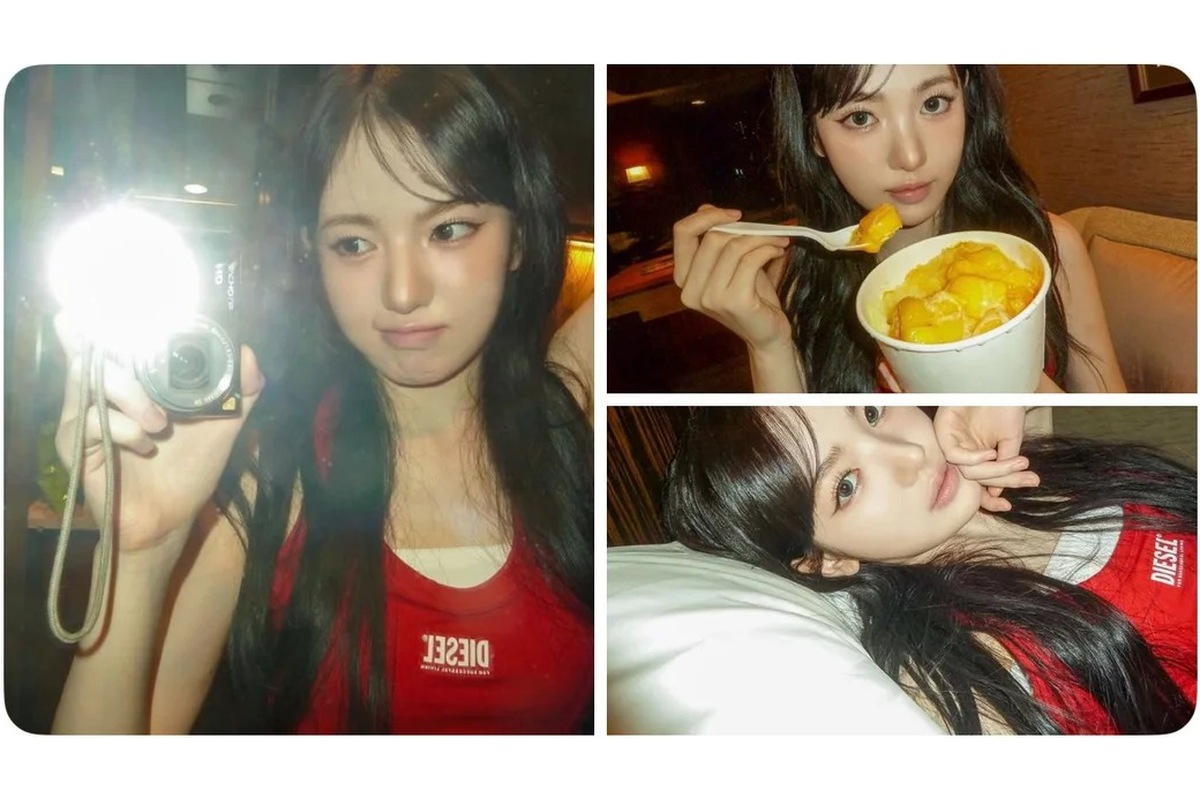
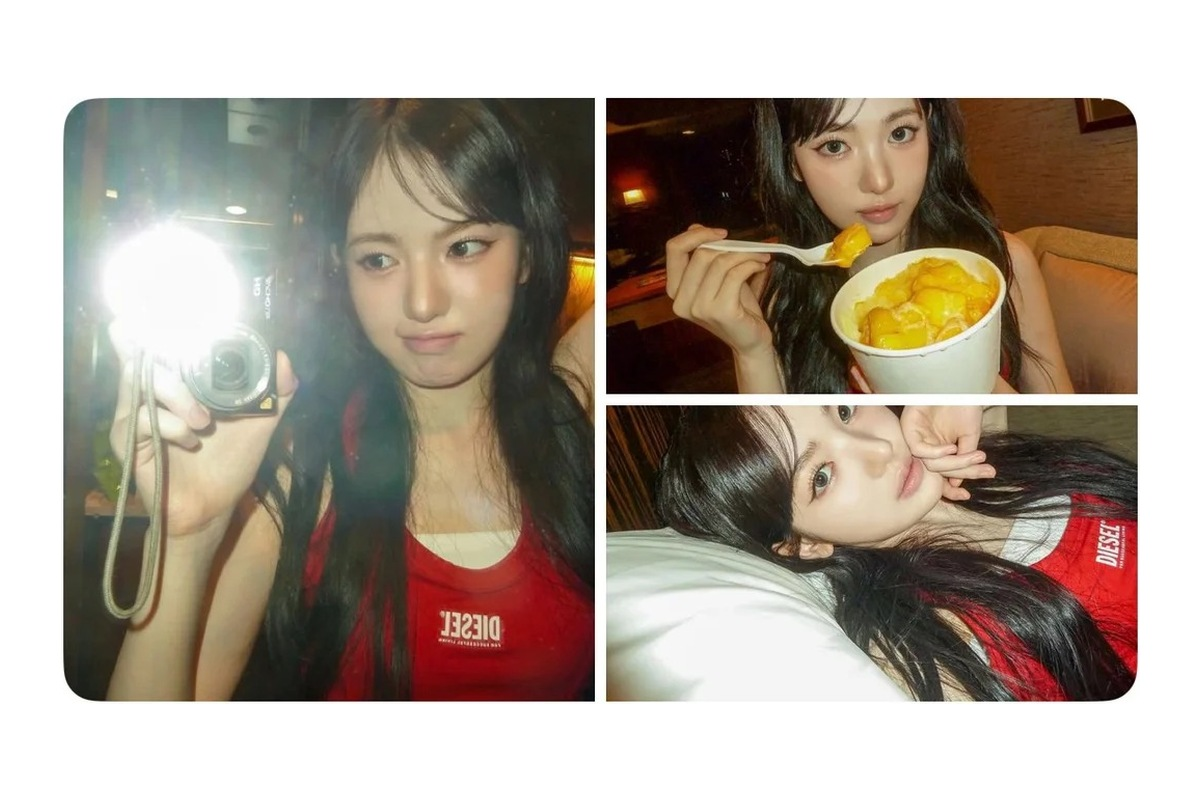
Unstretch the two oversized device cards to match the grid.
Recrop the leftover C143/TZ10 headers and normalize fill scale so those collages no longer look vertically elongated next to the others.

diff --git a/site-app.js b/site-app.js
@@ -1,7 +1,8 @@
 /* Interactive site — Home / Jams / 404 / Guides / Talk */
 (() => {
-  const STORAGE_KEY = "kiiikiii-site-v37-device-align";
+  const STORAGE_KEY = "kiiikiii-site-v38-device-unstretch";
   const PREV_STORAGE_KEYS = [
+    "kiiikiii-site-v37-device-align",
     "kiiikiii-site-v36-device-faces",
     "kiiikiii-site-v35-device-crop",
     "kiiikiii-site-v34-talk-duty",

diff --git a/index.html b/index.html
@@ -428,7 +428,7 @@
     .person .pic, .memory .pic { aspect-ratio: 4/5; background: center/cover no-repeat #e8eef3; cursor: zoom-in; }
     .gear .pic {
       aspect-ratio: 3 / 2;
-      background: center / 100% 100% no-repeat #fff;
+      background: center / contain no-repeat #fff;
       cursor: zoom-in;
     }
     .person .body, .gear .body, .memory .body { padding: 14px; }
